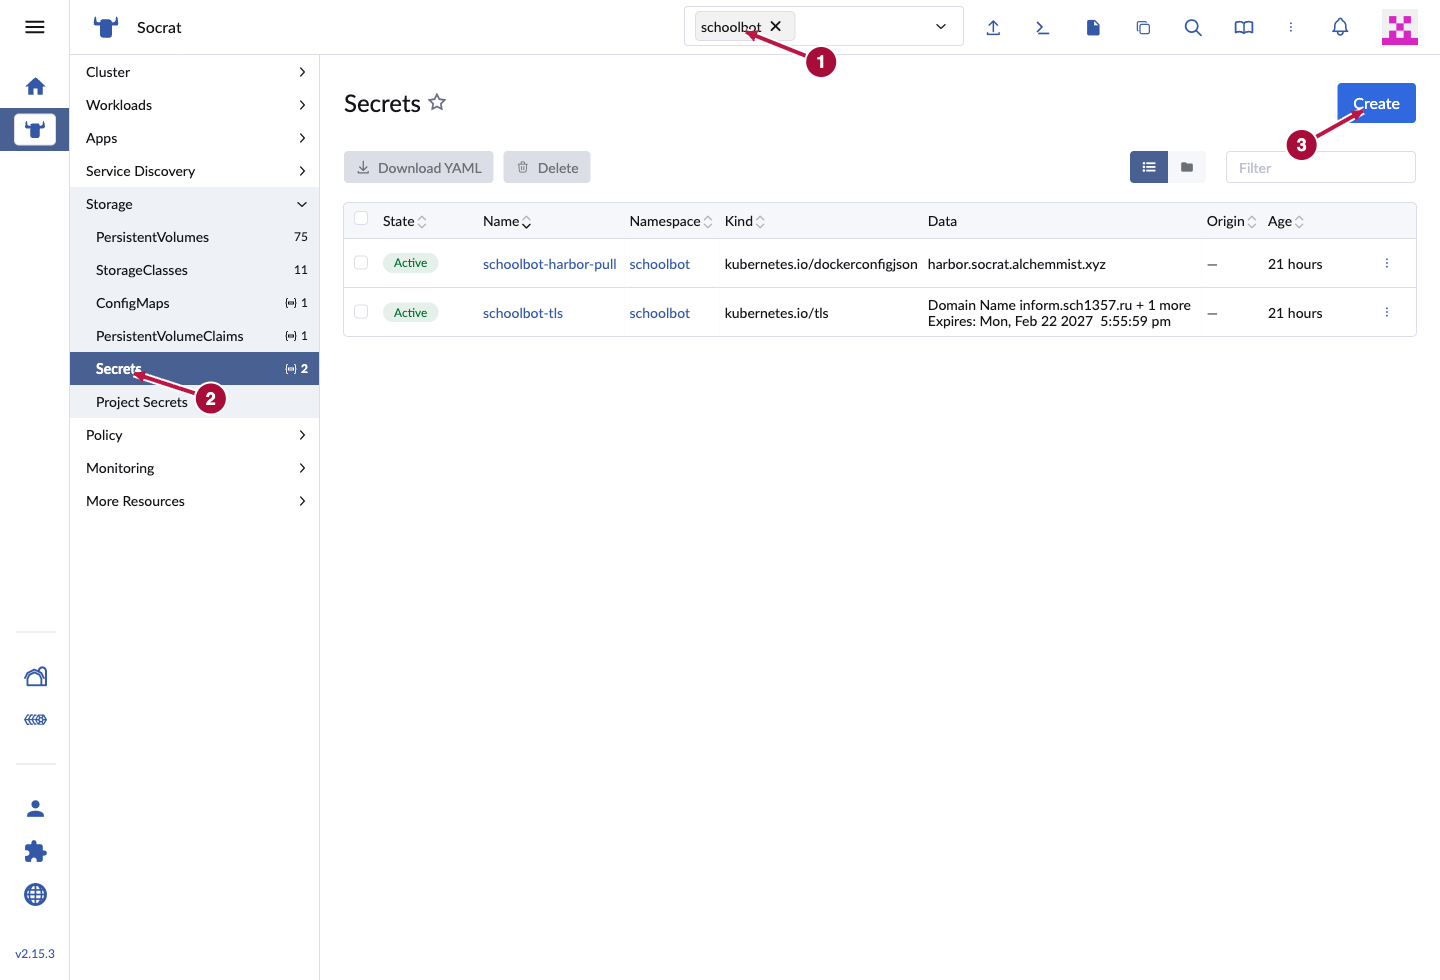
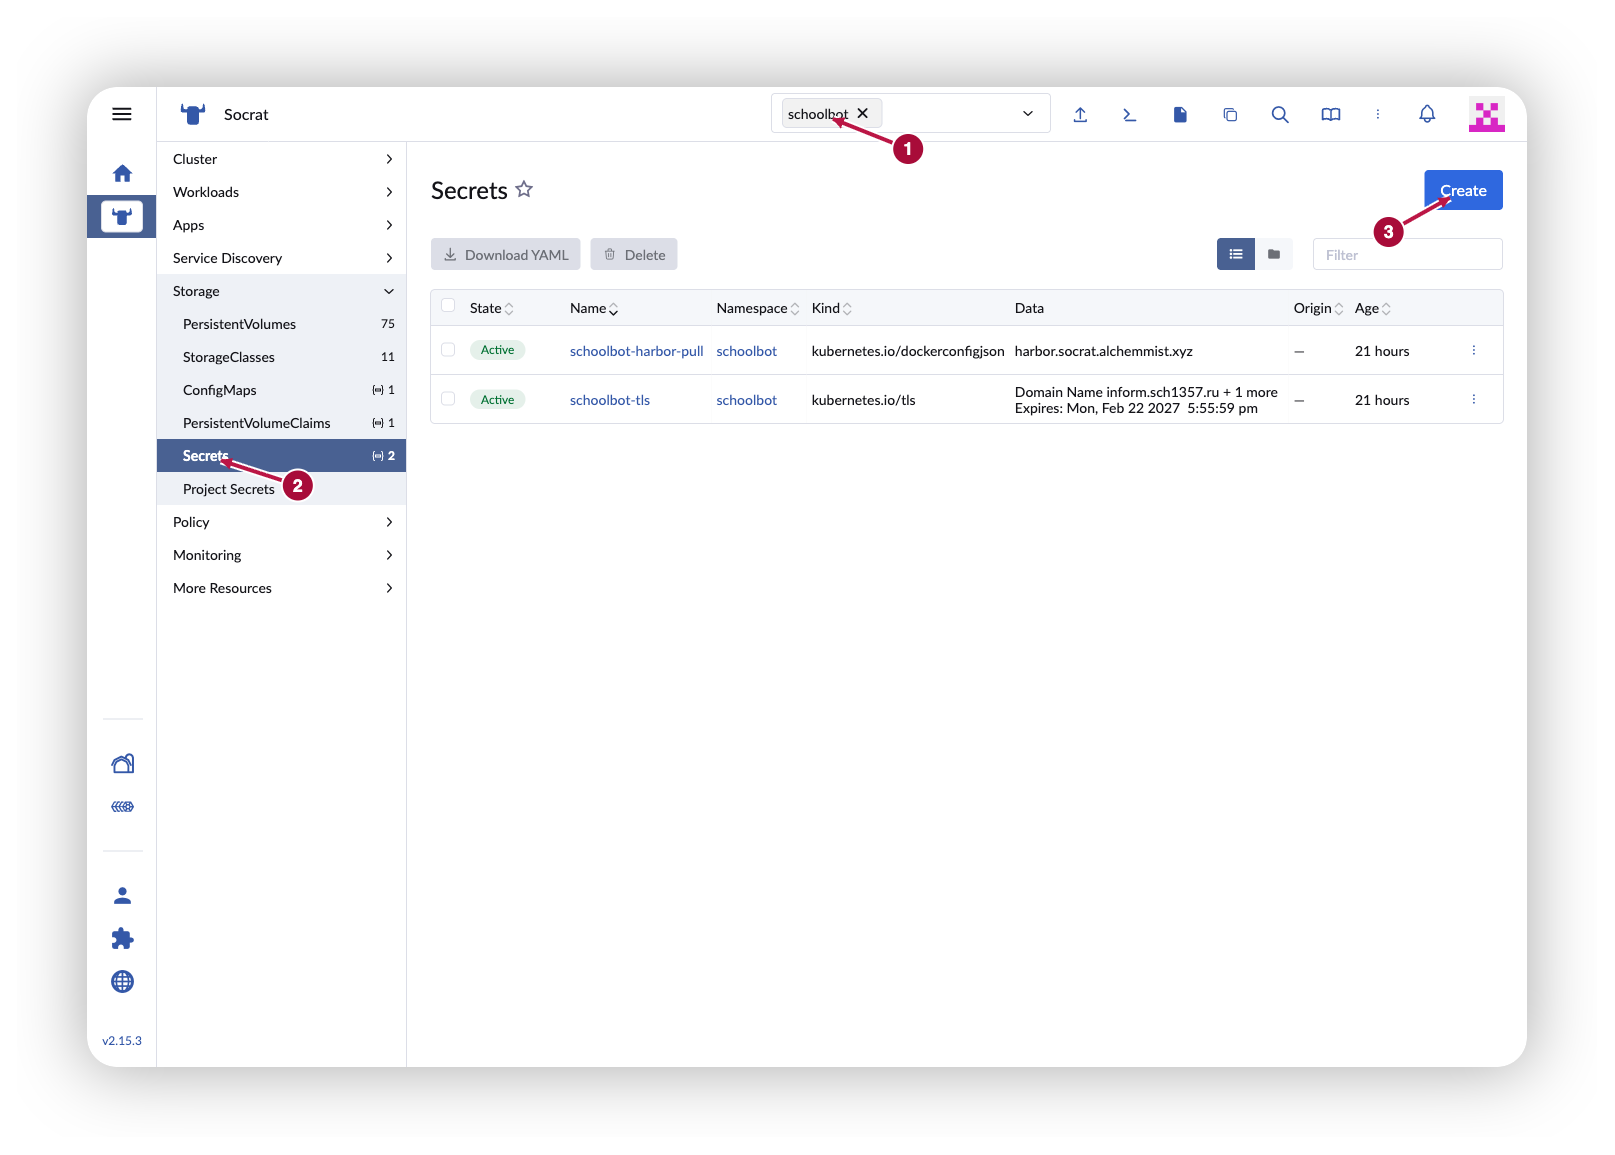
Apply rounded corners and shadows to Rancher guide screenshots

Changed region(s): [[0.0, 0.0, 1.0, 0.949], [0.875, 0.3061, 0.9062, 0.3367], [0.8438, 0.3367, 0.875, 0.3673]]

diff --git a/wiki/content/platform/rancher-secrets.md b/wiki/content/platform/rancher-secrets.md
@@ -9,24 +9,24 @@ weight: 51
 
 Войдите через Authentik, откройте кластер **Socrat** и в проводнике кластера выберите пространство имён **schoolbot**, затем **Storage → Secrets**. Не выбирайте **Project Secrets**: секрет нужен только одному приложению. Роли наблюдателя недостаточно для записи. Если кнопки создания или редактирования нет, попросите оператора подготовить `schoolbot-env` и выдать доступ к конкретному объекту, а не ко всем секретам кластера.
 
-![Список секретов: ① выберите пространство имён schoolbot, ② откройте Storage → Secrets, ③ нажмите Create.](https://rustfs.socrat.alchemmist.xyz/public/wiki/rancher-secrets/navigation-5460d82cf9fb.png)
+![Список секретов: ① выберите пространство имён schoolbot, ② откройте Storage → Secrets, ③ нажмите Create.](https://rustfs.socrat.alchemmist.xyz/public/wiki/rancher-secrets/navigation-e8628a15463f.png)
 
-Список секретов: ① выберите пространство имён schoolbot, ② откройте Storage → Secrets, ③ нажмите Create. [Открыть в полном размере](https://rustfs.socrat.alchemmist.xyz/public/wiki/rancher-secrets/navigation-5460d82cf9fb.png).
+Список секретов: ① выберите пространство имён schoolbot, ② откройте Storage → Secrets, ③ нажмите Create. [Открыть в полном размере](https://rustfs.socrat.alchemmist.xyz/public/wiki/rancher-secrets/navigation-e8628a15463f.png).
 
 - Если `schoolbot-env` **уже есть**, откройте меню **⋮ → Edit Config** и перейдите к заполнению полей. Сохраните существующие ключи.
 - Если его **нет** и у вас есть право создания, нажмите **Create → Opaque**. Тип `Registry` предназначен для скачивания образов (`schoolbot-harbor-pull`), а `TLS Certificate` — для сертификата. Их менять не нужно.
 
-![Выбор типа: ① нажмите Opaque.](https://rustfs.socrat.alchemmist.xyz/public/wiki/rancher-secrets/type-df296bd1e817.png)
+![Выбор типа: ① нажмите Opaque.](https://rustfs.socrat.alchemmist.xyz/public/wiki/rancher-secrets/type-fbebfdb07632.png)
 
-Выбор типа: ① нажмите Opaque. [Открыть в полном размере](https://rustfs.socrat.alchemmist.xyz/public/wiki/rancher-secrets/type-df296bd1e817.png).
+Выбор типа: ① нажмите Opaque. [Открыть в полном размере](https://rustfs.socrat.alchemmist.xyz/public/wiki/rancher-secrets/type-fbebfdb07632.png).
 
 ## Заполнить форму
 
 Проверьте **Namespace**: `schoolbot`. В **Name** укажите `schoolbot-env`. На вкладке **Data** нажимайте **Add** для каждой пары: в **Key** — точное имя переменной, в **Value** — её значение. Кодировать в base64 или обрамлять значение кавычками не нужно. На снимке показана одна строка с **учебным** значением `DEMO-ONLY`: не используйте его при запуске.
 
-![Форма: ① имя секрета, ② ключ, ③ значение, ④ создание после заполнения всех строк.](https://rustfs.socrat.alchemmist.xyz/public/wiki/rancher-secrets/data-d335010d1c14.png)
+![Форма: ① имя секрета, ② ключ, ③ значение, ④ создание после заполнения всех строк.](https://rustfs.socrat.alchemmist.xyz/public/wiki/rancher-secrets/data-5c28aa9e20aa.png)
 
-Форма: ① имя секрета, ② ключ, ③ значение, ④ создание после заполнения всех строк. [Открыть в полном размере](https://rustfs.socrat.alchemmist.xyz/public/wiki/rancher-secrets/data-d335010d1c14.png).
+Форма: ① имя секрета, ② ключ, ③ значение, ④ создание после заполнения всех строк. [Открыть в полном размере](https://rustfs.socrat.alchemmist.xyz/public/wiki/rancher-secrets/data-5c28aa9e20aa.png).
 
 Текущий [Deployment Schoolbot](https://github.com/alchemmist/homelab/blob/main/charts/schoolbot/templates/deployment.yaml) читает **все шесть ключей из одного Secret**:
 
